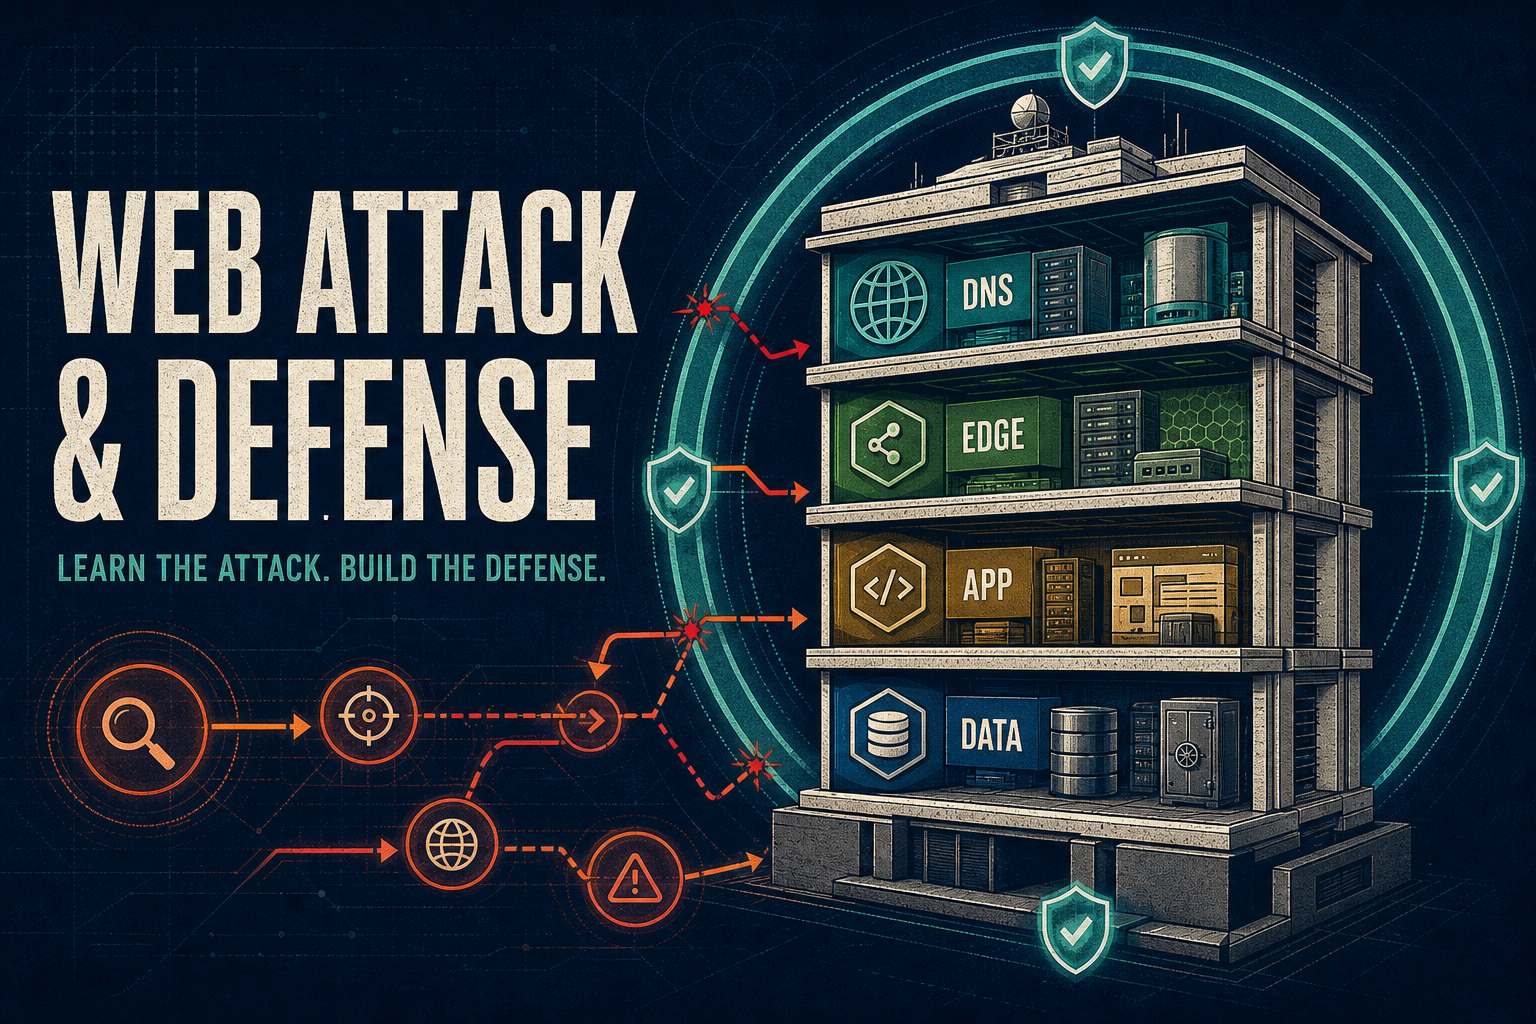
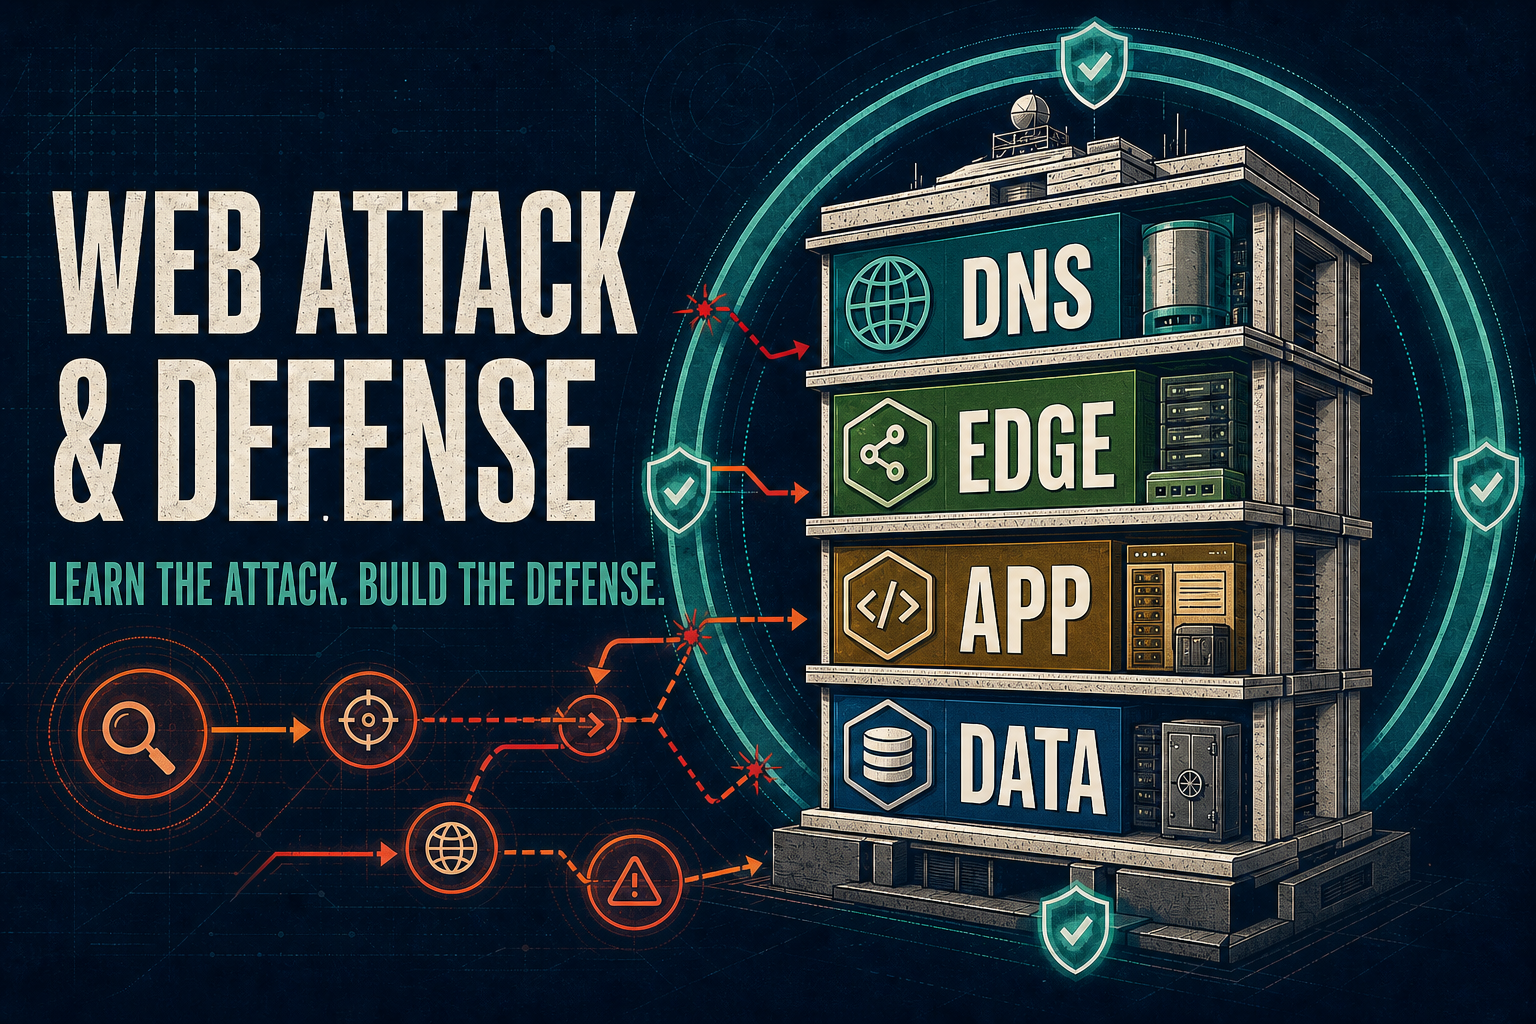
Increase web security diagram text size

diff --git a/web-security/styles.css b/web-security/styles.css
@@ -134,40 +134,40 @@ figcaption { margin-top: 11px; color: var(--muted); font-size: 11px; line-height
 
 .surface-map { display: grid; grid-template-columns: 170px 45px 1fr; align-items: stretch; margin-top: 39px; padding: 23px; color: var(--paper); background: var(--navy); }
 .surface-source { display: grid; align-content: center; gap: 10px; padding: 19px; border: 1px solid var(--orange); }
-.surface-source b { color: var(--orange); font: 500 11px/1 var(--mono); }
-.surface-source span { color: rgba(244,239,223,.68); font-size: 11px; }
+.surface-source b { color: var(--orange); font: 500 15px/1 var(--mono); }
+.surface-source span { color: rgba(244,239,223,.78); font-size: 13px; line-height: 1.45; }
 .surface-arrow { display: grid; place-items: center; color: var(--orange); font-size: 27px; }
 .surface-layers { display: grid; grid-template-columns: repeat(4, 1fr); gap: 1px; background: rgba(244,239,223,.2); }
 .surface-layers article { min-height: 150px; padding: 18px; background: var(--navy-2); }
-.surface-layers article span { color: var(--orange); font: 10px/1 var(--mono); }
-.surface-layers article b { display: block; margin: 45px 0 9px; color: var(--teal); font: 500 13px/1 var(--mono); }
-.surface-layers article p { margin: 0; color: rgba(244,239,223,.65); font-size: 11px; line-height: 1.6; }
+.surface-layers article span { color: var(--orange); font: 12px/1 var(--mono); }
+.surface-layers article b { display: block; margin: 39px 0 10px; color: var(--teal); font: 500 17px/1 var(--mono); }
+.surface-layers article p { margin: 0; color: rgba(244,239,223,.76); font-size: 13px; line-height: 1.55; }
 .surface-layers .control { grid-column: 1 / -1; min-height: auto; background: #163b42; }
 .surface-layers .control b { display: inline; margin: 0 18px 0 28px; }
 .surface-layers .control p { display: inline; }
-.diagram-caption { margin: 13px 0 0; color: var(--muted); font-size: 11px !important; line-height: 1.7 !important; }
+.diagram-caption { margin: 15px 0 0; color: var(--muted); font-size: 13px !important; line-height: 1.75 !important; }
 .diagram-caption b { color: var(--ink); }
 .surface-formula { display: grid; grid-template-columns: 1fr auto 1fr auto 1fr auto 1fr; align-items: stretch; margin: 38px 0 22px; padding: 1px; background: var(--line); }
 .surface-formula div { min-height: 140px; padding: 18px; background: var(--paper-2); }
-.surface-formula span { display: block; color: var(--orange); font: 9px/1.4 var(--mono); }
-.surface-formula b { display: block; margin-top: 48px; font-size: 14px; }
+.surface-formula span { display: block; color: var(--orange); font: 11px/1.45 var(--mono); }
+.surface-formula b { display: block; margin-top: 42px; font-size: 17px; line-height: 1.45; }
 .surface-formula i { display: grid; place-items: center; padding: 7px; background: var(--paper); font-style: normal; }
 .chapter-callout { margin-top: 30px; padding: 27px 30px; color: var(--paper); background: var(--navy-2); }
 .chapter-callout b { color: var(--yellow); font: 500 11px/1 var(--mono); }
 .chapter-callout p { margin: 13px 0 0; color: rgba(244,239,223,.72); font-size: 14px; line-height: 1.85; }
 .attack-chain { display: grid; grid-template-columns: repeat(5, 1fr); gap: 1px; margin-top: 38px; padding: 1px; background: var(--dark-line); color: var(--paper); }
 .attack-chain article { display: flex; min-height: 260px; flex-direction: column; padding: 18px; background: var(--navy); }
-.attack-chain span { color: var(--orange); font: 10px/1 var(--mono); }
-.attack-chain b { margin-top: 45px; color: var(--teal); font: 500 12px/1 var(--mono); }
-.attack-chain p { color: rgba(244,239,223,.62); font-size: 11px; line-height: 1.65; }
-.attack-chain em { margin-top: auto; color: var(--yellow); font-size: 10px; font-style: normal; line-height: 1.55; }
+.attack-chain span { color: var(--orange); font: 12px/1 var(--mono); }
+.attack-chain b { margin-top: 39px; color: var(--teal); font: 500 15px/1 var(--mono); }
+.attack-chain p { color: rgba(244,239,223,.74); font-size: 13px; line-height: 1.65; }
+.attack-chain em { margin-top: auto; color: var(--yellow); font-size: 12px; font-style: normal; line-height: 1.6; }
 .data-flow { display: grid; grid-template-columns: 125px 75px minmax(280px, 1fr) 80px minmax(220px, .8fr); align-items: stretch; margin-top: 38px; padding: 22px; color: var(--paper); background: var(--navy); }
 .flow-node { min-height: 130px; padding: 16px; border: 1px solid rgba(244,239,223,.22); }
-.flow-node span, .zone-label { display: block; color: var(--orange); font: 8px/1 var(--mono); letter-spacing: .08em; }
-.flow-node b { display: block; margin: 30px 0 7px; color: var(--teal); font: 500 12px/1 var(--mono); }
-.flow-node p { margin: 0; color: rgba(244,239,223,.58); font-size: 9px; line-height: 1.55; }
+.flow-node span, .zone-label { display: block; color: var(--orange); font: 10px/1.2 var(--mono); letter-spacing: .06em; }
+.flow-node b { display: block; margin: 27px 0 8px; color: var(--teal); font: 500 15px/1 var(--mono); }
+.flow-node p { margin: 0; color: rgba(244,239,223,.72); font-size: 12px; line-height: 1.55; }
 .flow-line { display: grid; place-items: center; color: var(--orange); font-size: 20px; text-align: center; }
-.flow-line span { display: block; font: 7px/1.5 var(--mono); }
+.flow-line span { display: block; font: 10px/1.5 var(--mono); }
 .trust-zone { position: relative; display: grid; grid-template-columns: 1fr 32px 1.25fr; gap: 6px; padding: 25px 9px 9px; border: 1px dashed var(--teal); }
 .zone-label { position: absolute; top: 8px; left: 9px; color: var(--teal); }
 .data-zone { grid-template-columns: 1fr; }
@@ -175,19 +175,19 @@ figcaption { margin-top: 11px; color: var(--muted); font-size: 11px; line-height
 .data-zone .flow-node b { margin-top: 19px; }
 .inventory-wrap { overflow-x: auto; margin-top: 38px; border: 1px solid var(--ink); }
 table { width: 100%; min-width: 760px; border-collapse: collapse; }
-th { padding: 13px 15px; color: var(--paper); background: var(--navy); font: 500 10px/1.4 var(--mono); text-align: left; }
-td { padding: 16px 15px; border-right: 1px solid var(--line); border-bottom: 1px solid var(--line); font-size: 12px; line-height: 1.65; vertical-align: top; }
+th { padding: 15px; color: var(--paper); background: var(--navy); font: 500 12px/1.45 var(--mono); text-align: left; }
+td { padding: 18px 15px; border-right: 1px solid var(--line); border-bottom: 1px solid var(--line); font-size: 14px; line-height: 1.65; vertical-align: top; }
 tbody tr:last-child td { border-bottom: 0; }
 td:last-child { border-right: 0; }
 td b, td span { display: block; }
-td span { margin-top: 5px; color: var(--muted); font-size: 10px; }
+td span { margin-top: 5px; color: var(--muted); font-size: 12px; }
 .risk-board { position: relative; display: grid; grid-template-columns: repeat(2, 1fr); gap: 1px; margin-top: 38px; padding: 29px 1px 1px 29px; background: var(--navy); }
-.risk-axis span { position: absolute; color: var(--paper); font: 9px/1 var(--mono); }
+.risk-axis span { position: absolute; color: var(--paper); font: 11px/1 var(--mono); }
 .risk-axis span:first-child { top: 11px; left: 8px; }
 .risk-axis span:last-child { right: 10px; bottom: 8px; }
 .risk-board article { min-height: 150px; padding: 22px; background: var(--paper-2); }
-.risk-board article b { font-size: 15px; }
-.risk-board article p { margin: 43px 0 0; color: var(--muted); font-size: 12px; line-height: 1.6; }
+.risk-board article b { font-size: 18px; }
+.risk-board article p { margin: 37px 0 0; color: var(--muted); font-size: 14px; line-height: 1.65; }
 .risk-board .risk-fix { background: var(--orange); }
 .risk-board .risk-fix p { color: var(--navy); }
 .risk-board .risk-plan { color: var(--paper); background: var(--teal-dark); }
